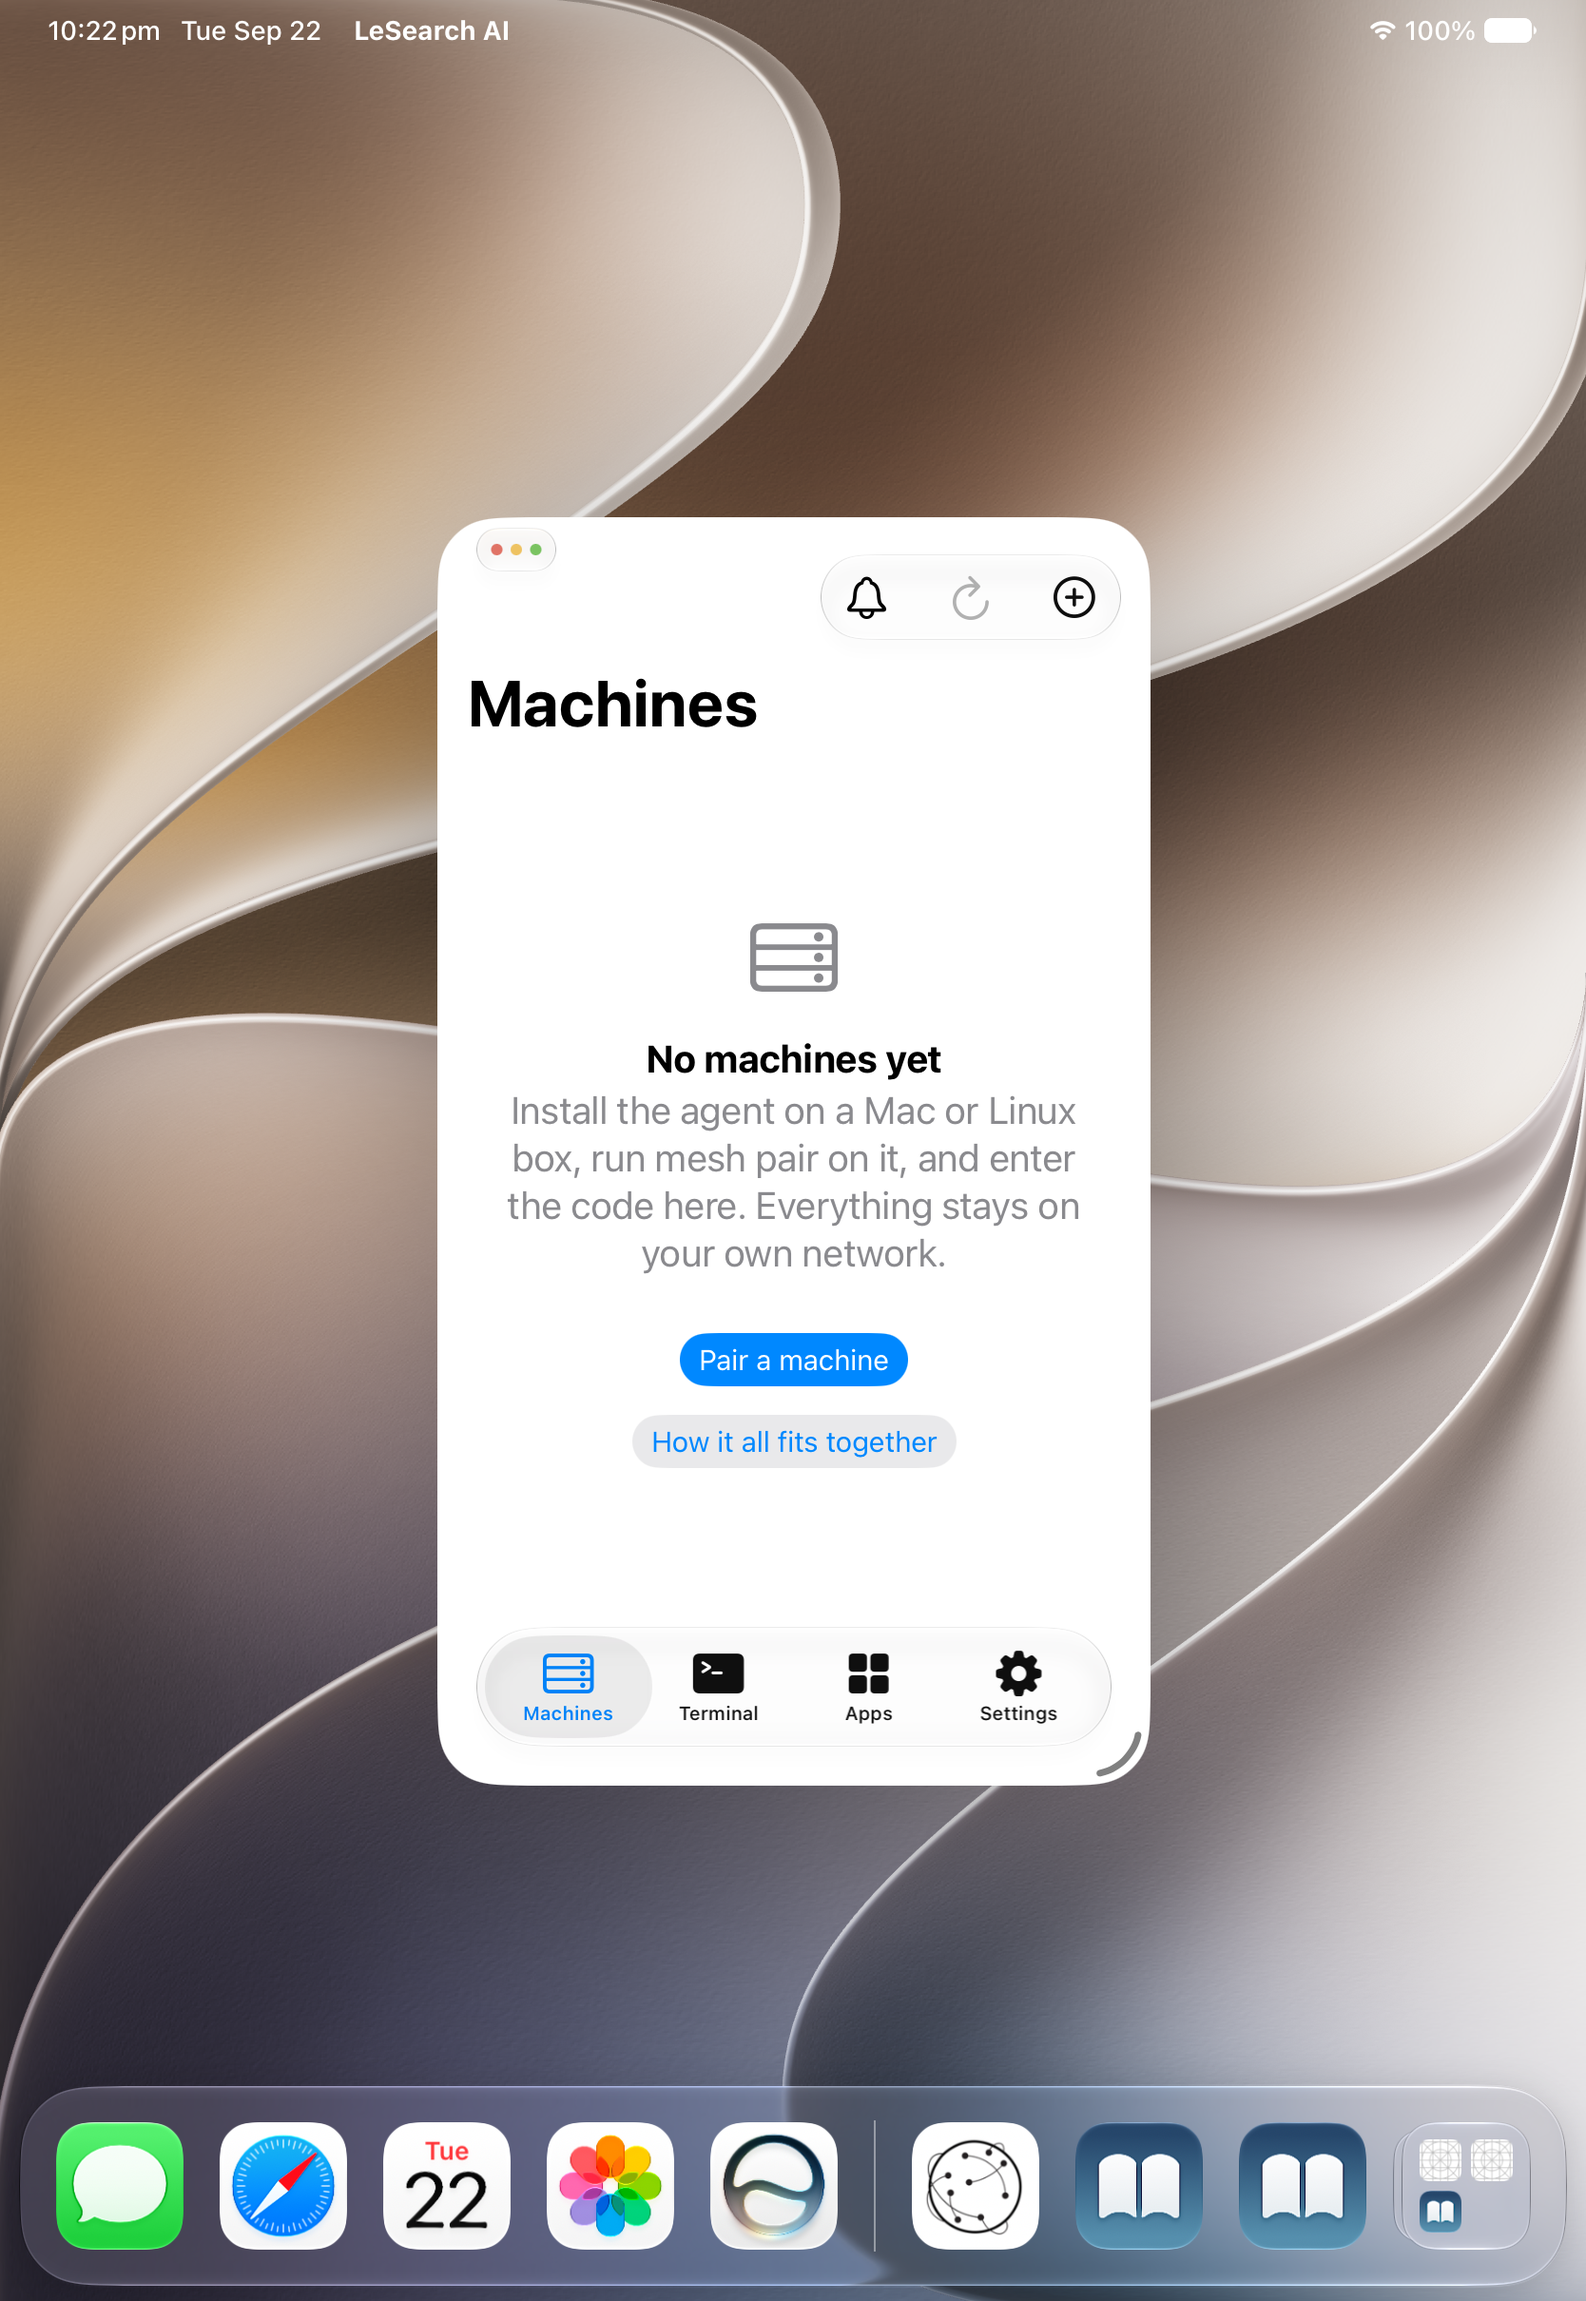
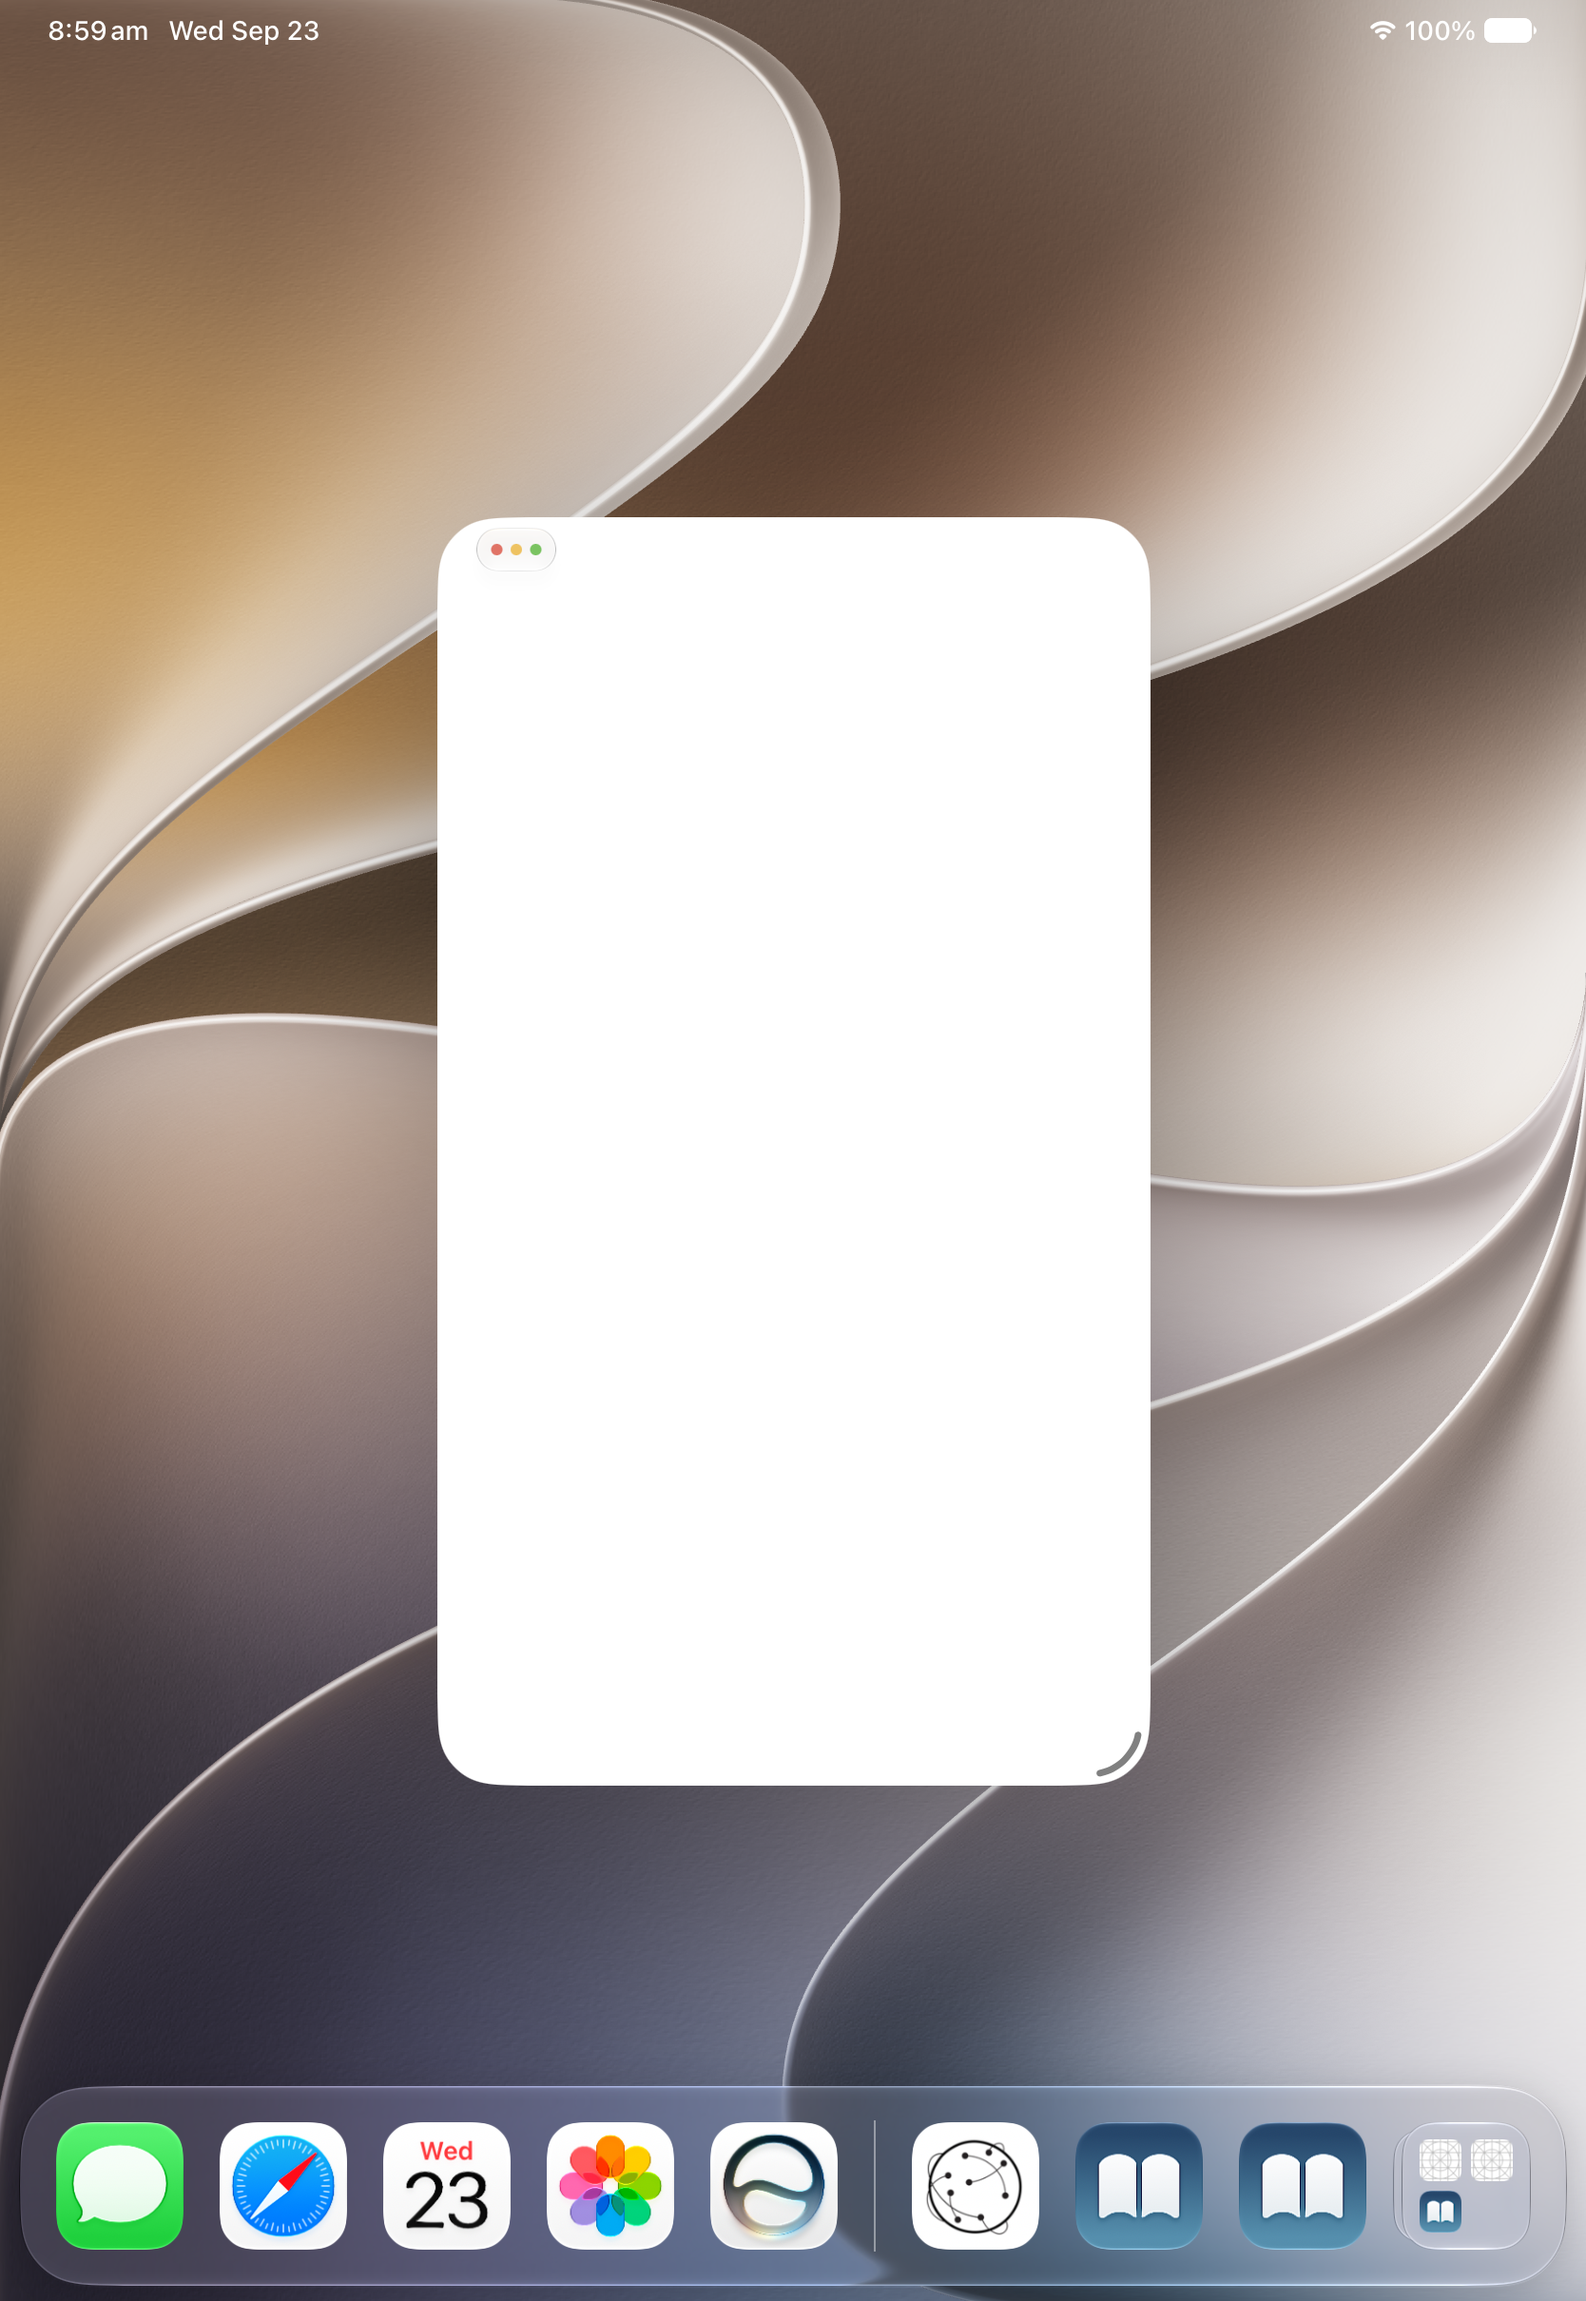
fix(approvals): the trust prompt's question, not the link above the options
Found by the publish session on a live Claude Code trust prompt — the first
card a new user ever meets. "Nearest non-empty line above the options" is right
for a permission list, where the question sits immediately above them, and wrong
here: Claude Code prints a "Security guide" link there, so the card asked the
owner to approve a link label. Same class as approving a blank subject, with a
wrong noun instead of a missing one.

A real question now wins over proximity. Within eight lines above the list
(the trust prompt's question is six up), the nearest line containing "?" wins
and is cut at the question mark, because that question wraps mid-line and the
rest is guidance: "Quick safety check: Is this a project you created or one you
trust?" Failing that, the nearest line that ends like a sentence; failing that,
the nearest line at all.

The fixture is a verbatim pane capture taken here from a real `claude` session
in a folder it had never seen, not a hand-written approximation.

diff --git a/Shared/Models.swift b/Shared/Models.swift
@@ -1707,12 +1707,23 @@ struct AgentMenu: Equatable {
 
     private static func isFooter(_ s: String) -> Bool { footerWords.contains { s.contains($0) } }
 
-    /// The question above a menu: the nearest non-empty line that is not itself an option,
-    /// a footer, a rule or a box edge. Looks at most four lines up — further than that and
-    /// it is the output the agent was working on, not what it is asking.
+    /// The question above a menu.
+    ///
+    /// "Nearest line above the options" is right for a permission list, where the question
+    /// sits immediately above them, and wrong for Claude Code's trust prompt, where the
+    /// line immediately above is the "Security guide" link — the card then asked the owner
+    /// to approve a *link label*, which is the same defect as approving nothing, with a
+    /// wrong noun instead of a missing one (found on a live trust prompt, 2026-09-23).
+    ///
+    /// So: a real question wins over proximity. Within eight lines above the list, take the
+    /// nearest line containing "?" and cut it at the question mark — the trust prompt wraps
+    /// its question mid-line and the rest is guidance, not the question. Failing that, the
+    /// nearest line that ends like a sentence. Failing that, the nearest line at all.
     private static func promptLine(in tail: [String], above line: Int) -> String? {
         guard line > 0 else { return nil }
-        for s in tail[max(0, line - 4)..<line].reversed() {
+        var sentence: String? = nil
+        var nearest: String? = nil
+        for s in tail[max(0, line - 8)..<line].reversed() {
             var body = s.trimmingCharacters(in: .whitespaces)
             // Strip a TUI's box edges: "│ Do you want to proceed?  │".
             body = body.trimmingCharacters(in: CharacterSet(charactersIn: "│|╭╮╰╯─═ "))
@@ -1720,9 +1731,13 @@ struct AgentMenu: Equatable {
             guard numbered.firstMatch(in: body, range: NSRange(body.startIndex..., in: body)) == nil,
                   marked.firstMatch(in: body, range: NSRange(body.startIndex..., in: body)) == nil,
                   !body.allSatisfy({ "─-═•· ".contains($0) }) else { continue }
-            return String(body.prefix(200))
+            if let mark = body.firstIndex(of: "?") {
+                return String(body[...mark].prefix(200))
+            }
+            if sentence == nil, let last = body.last, ".!:".contains(last) { sentence = body }
+            if nearest == nil { nearest = body }
         }
-        return nil
+        return (sentence ?? nearest).map { String($0.prefix(200)) }
     }
 
     private static func footerLine(in tail: [String], after line: Int) -> String? {

diff --git a/scripts/check-menu-prompt.swift b/scripts/check-menu-prompt.swift
@@ -44,6 +44,35 @@ import Foundation
         expect(trustMenu.prompt?.hasPrefix("Claude Code") == true,
                "the trust sentence is the prompt, got \(trustMenu.prompt ?? "nil")")
 
+        // Claude Code's real trust prompt, captured verbatim from a pane on 2026-09-23.
+        // The line immediately above the options is a LINK ("Security guide"); the question
+        // is six lines up and wraps mid-sentence. Taking the nearest line put "Security
+        // guide" on the card, so the owner was approving a link label.
+        let realTrust = """
+        ────────────────────────────────────────────────────────────────────────────────
+         Accessing workspace:
+
+         /private/tmp/trust-probe-77843
+
+         Quick safety check: Is this a project you created or one you trust? (Like your
+         own code, a well-known open source project, or work from your team). If not,
+         take a moment to review what's in this folder first.
+
+         Claude Code'll be able to read, edit, and execute files here.
+
+         Security guide
+
+         ❯ No, exit
+           Yes, I trust this folder
+
+         Enter to confirm · Esc to cancel
+        """.components(separatedBy: "\n")
+        guard let realMenu = AgentMenu.parse(lines: realTrust) else { fail("the real trust prompt is not recognised") }
+        expect(realMenu.prompt == "Quick safety check: Is this a project you created or one you trust?",
+               "the question wins over the nearer link label, cut at the question mark, got \(realMenu.prompt ?? "nil")")
+        expect(realMenu.options.count == 2 && realMenu.options[1].label == "Yes, I trust this folder",
+               "both trust options survive, got \(realMenu.options.map(\.label))")
+
         // No question printed: nil, never a stray option or footer masquerading as one.
         let bare = """
          ❯ 1. Yes
@@ -53,7 +82,7 @@ import Foundation
         if let bareMenu = AgentMenu.parse(lines: bare) {
             expect(bareMenu.prompt == nil, "no line above the list means no prompt, got \(bareMenu.prompt ?? "nil")")
         }
-        print("check-menu-prompt: ok (4 fixtures)")
+        print("check-menu-prompt: ok (5 fixtures)")
     }
 
     static func expect(_ ok: Bool, _ what: String) { if !ok { print("FAIL: \(what)"); exit(1) } }
